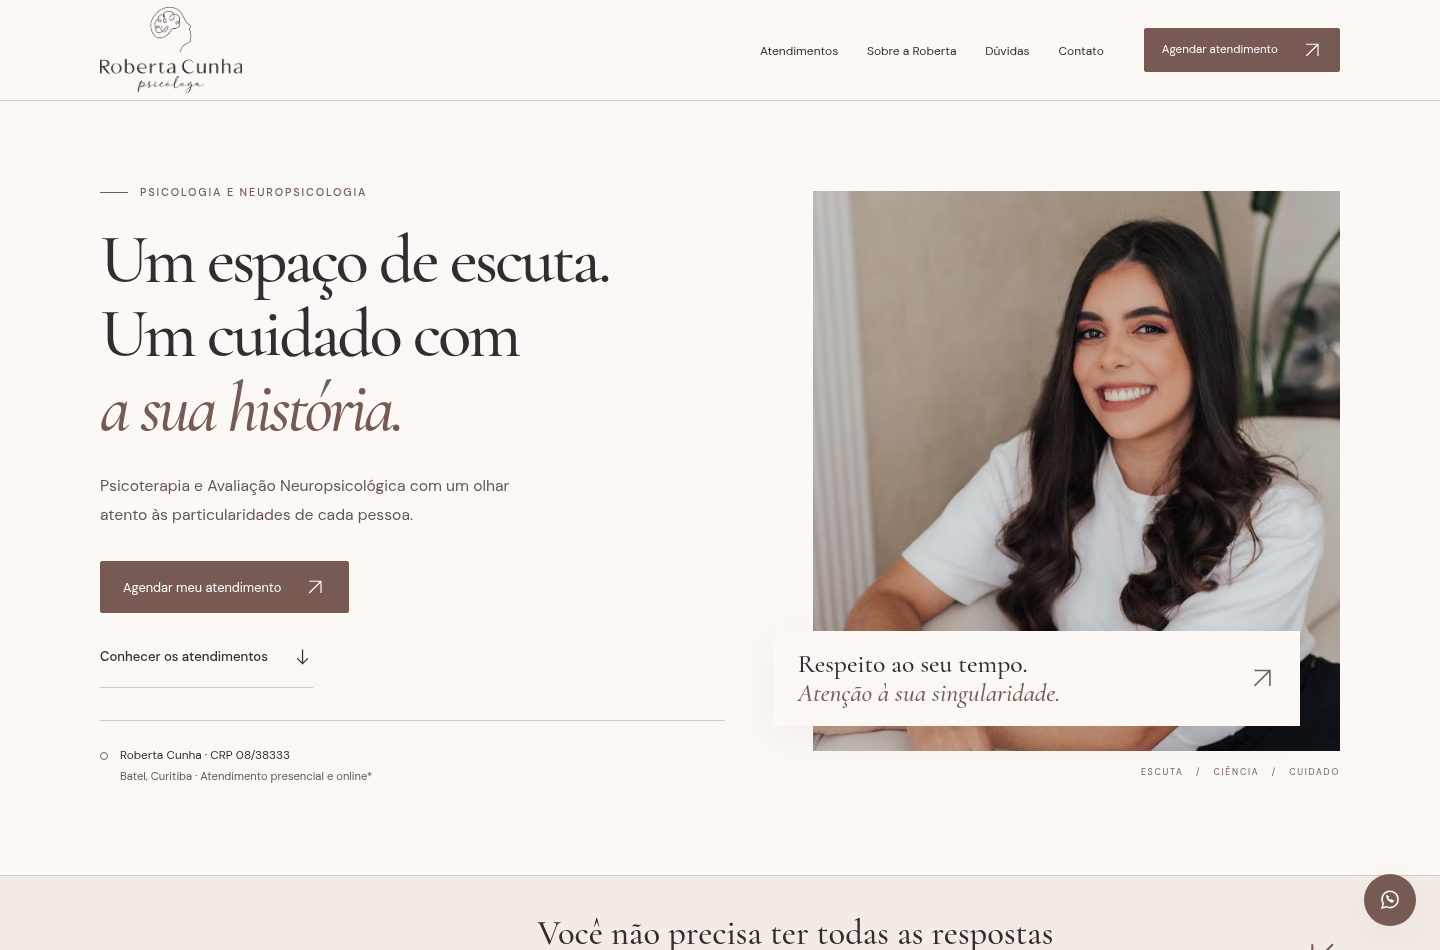
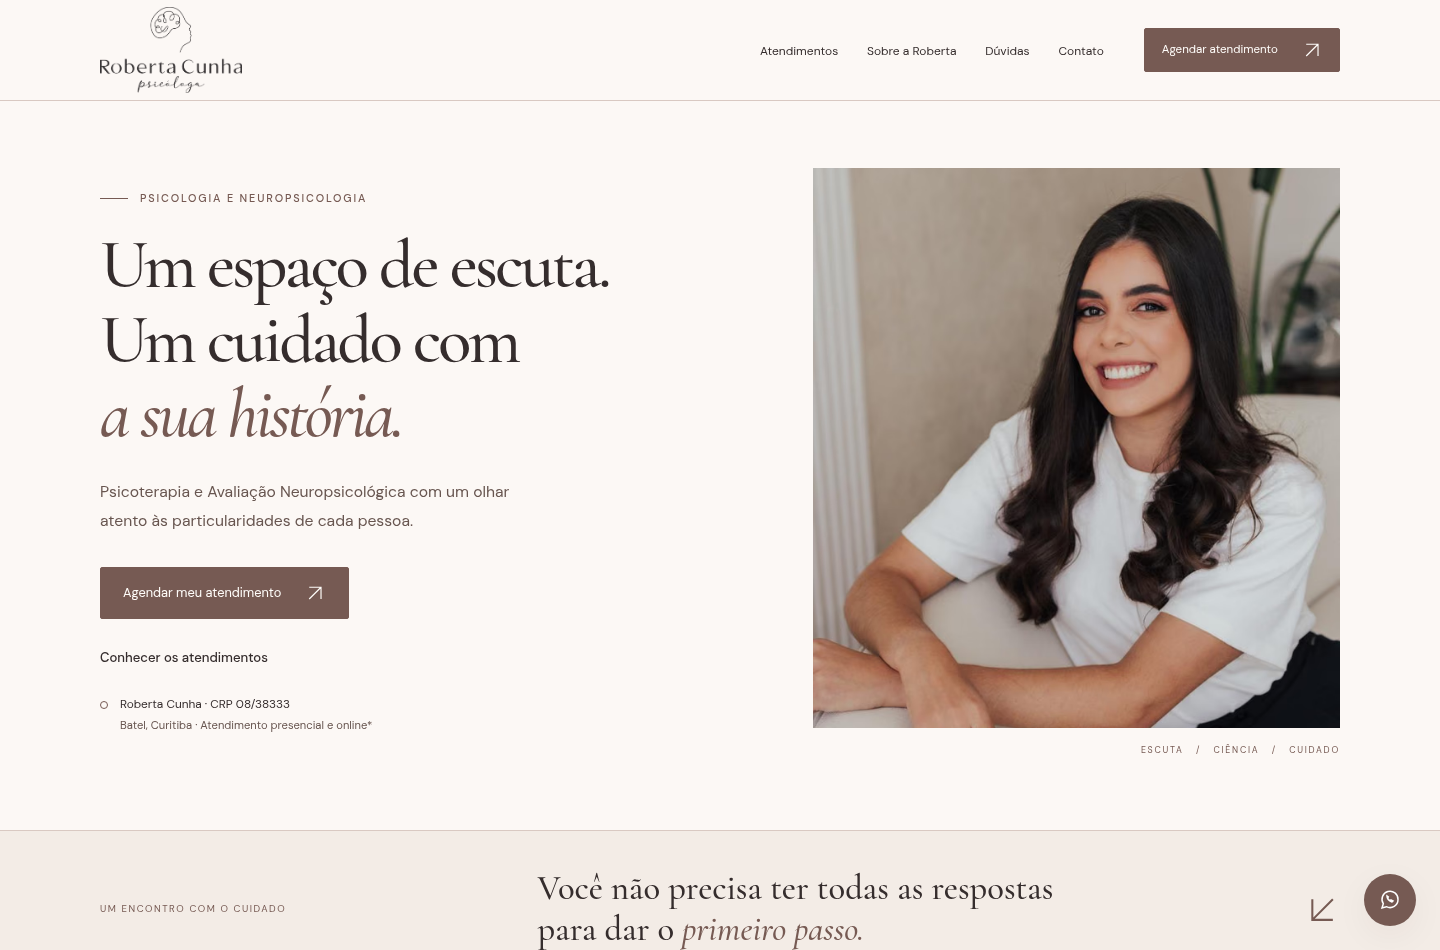
refactor: simplify landing visuals and add subtle scroll reveals

diff --git a/tests/site.spec.ts b/tests/site.spec.ts
@@ -3,6 +3,8 @@ import AxeBuilder from '@axe-core/playwright';
 
 for (const width of [320, 375, 390, 430, 768, 1024, 1440, 1920]) {
   test(`layout e acessibilidade em ${width}px`, async ({ page }) => {
+    // Auditoria estática; animações em movimento são verificadas nos testes próprios.
+    await page.emulateMedia({ reducedMotion: 'reduce' });
     await page.setViewportSize({ width, height: 900 });
     const errors: string[] = [];
     page.on('pageerror', (error) => errors.push(error.message));
@@ -109,6 +111,7 @@ test('menu mobile, teclado, FAQ e contatos', async ({ page }) => {
 test('preferências, persistência, rejeição e ausência de rastreadores', async ({
   page,
 }) => {
+  await page.emulateMedia({ reducedMotion: 'reduce' });
   const requests: string[] = [];
   page.on('request', (request) => {
     if (!request.url().startsWith('http://127.0.0.1:4322'))
@@ -200,3 +203,43 @@ test('conteúdo e FAQ funcionam sem JavaScript', async ({ browser }) => {
   await expect(page.locator('main a[href*="wa.me"]').first()).toBeVisible();
   await context.close();
 });
+
+for (const width of [390, 1440]) {
+  test(`entradas suaves e movimento reduzido em ${width}px`, async ({
+    page,
+  }) => {
+    await page.setViewportSize({ width, height: 900 });
+    await page.goto('/');
+    await expect(
+      page.locator('.image-note, .card-top svg, .hero-actions .arrow-link svg'),
+    ).toHaveCount(0);
+    await page.evaluate(() => {
+      const target = document.querySelector('.services-grid')!;
+      window.scrollTo({
+        top: target.getBoundingClientRect().top + scrollY - 220,
+        behavior: 'instant',
+      });
+    });
+    await expect
+      .poll(() =>
+        page.evaluate(
+          () =>
+            document
+              .getAnimations()
+              .filter(
+                (animation) => animation.effect?.getTiming().duration === 550,
+              ).length,
+        ),
+      )
+      .toBeGreaterThan(0);
+    await expect
+      .poll(() => page.evaluate(() => document.getAnimations().length))
+      .toBe(0);
+    await expect(page.locator('.service-card').first()).toBeVisible();
+    await page.emulateMedia({ reducedMotion: 'reduce' });
+    await page.reload();
+    await page.locator('.services-grid').scrollIntoViewIfNeeded();
+    expect(await page.evaluate(() => document.getAnimations().length)).toBe(0);
+    await expect(page.locator('.service-card').last()).toBeVisible();
+  });
+}

diff --git a/src/styles/global.css b/src/styles/global.css
@@ -337,23 +337,7 @@ section.hero {
 .portrait.hero {
   height: 560px;
 }
-.image-note {
-  position: absolute;
-  bottom: 55px;
-  left: -24px;
-  right: 40px;
-  display: flex;
-  align-items: center;
-  justify-content: space-between;
-  background: var(--paper);
-  padding: 19px 25px;
-  box-shadow: var(--shadow);
-  font: 500 1.6rem/1.1 var(--serif);
-}
-.note-mark {
-  font: 1.5rem var(--sans);
-  color: var(--brown);
-}
+
 .visual-label {
   position: absolute;
   bottom: 0;
@@ -421,9 +405,7 @@ section.hero {
   color: var(--brown);
   font-size: 0.8rem;
 }
-.card-top span:last-child {
-  font-size: 1.4rem;
-}
+
 .service-card .eyebrow {
   font-size: 0.6rem;
   margin-bottom: 0.7rem;
@@ -828,10 +810,7 @@ body:has(footer:hover) .floating-contact {
   .hero h1 {
     font-size: 4rem;
   }
-  .image-note {
-    left: 0;
-    right: 24px;
-  }
+
   .section-heading,
   .detail-row,
   .faq-grid,
@@ -901,10 +880,7 @@ body:has(footer:hover) .floating-contact {
   .portrait.hero {
     height: 490px;
   }
-  .image-note {
-    font-size: 1.3rem;
-    padding: 18px;
-  }
+
   .hero-actions .button {
     font-size: 0.75rem;
   }
@@ -1008,12 +984,7 @@ body:has(footer:hover) .floating-contact {
   .portrait.hero {
     height: 390px;
   }
-  .image-note {
-    bottom: 45px;
-    left: 0;
-    right: 25px;
-    font-size: 1.5rem;
-  }
+
   .visual-label {
     font-size: 0.5rem;
   }
@@ -1240,9 +1211,7 @@ body:has(.cookie-panel:not([hidden])) .floating-contact {
   .hero h1 {
     font-size: 2.9rem;
   }
-  .image-note {
-    font-size: 1.3rem;
-  }
+
   .contact-pair {
     grid-template-columns: 1fr;
   }
@@ -1257,8 +1226,6 @@ body:has(.cookie-panel:not([hidden])) .floating-contact {
 .button > span:last-child {
   display: flex;
 }
-.card-top > span:last-child,
-.note-mark,
 .strip-symbol {
   display: flex;
   align-items: center;
@@ -1292,4 +1259,28 @@ body:has(.cookie-panel:not([hidden])) .floating-contact {
 
 picture {
   display: block;
+}
+
+/* Simplificação da hero, sem divisores ou seta no link secundário. */
+.hero-actions .arrow-link {
+  border-bottom: 0;
+  padding-bottom: 0;
+}
+.hero-location {
+  border-top: 0;
+  padding-top: 0;
+  margin-top: 1.5rem;
+}
+.button {
+  transition:
+    background var(--ease),
+    color var(--ease),
+    border-color var(--ease),
+    box-shadow var(--ease);
+}
+.button:hover {
+  box-shadow: var(--shadow);
+}
+summary > span {
+  transition: transform var(--ease);
 }

diff --git a/src/data/site.ts b/src/data/site.ts
@@ -108,14 +108,14 @@ export const services = [
     title: 'Avaliação Neuropsicológica',
     eyebrow: 'Compreender para orientar o cuidado',
     description:
-      'Uma investigação cuidadosa do funcionamento cognitivo, emocional e comportamental, que contribui para compreender habilidades, dificuldades e necessidades individuais.',
+      'Investigação diagnóstica do funcionamento cognitivo, emocional e comportamental de crianças, adolescentes e adultos, com rigor técnico e acolhimento.',
     tags: ['Atenção e memória', 'Aprendizagem', 'Funções executivas'],
     kind: 'assessment' as ContactKind,
     cta: 'Agendar avaliação neuropsicológica',
     detail:
-      'O processo reúne entrevista, instrumentos pertinentes e análise integrada das informações. Pode investigar atenção, memória, linguagem, funções executivas, aprendizagem e aspectos emocionais e comportamentais.',
+      'A atuação da Roberta une rigor técnico e acolhimento na investigação diagnóstica e no acompanhamento de crianças, adolescentes e adultos, considerando demandas relacionadas ao TDAH, ao Transtorno do Espectro Autista (TEA), à ansiedade e a outras questões emocionais, cognitivas e comportamentais.',
     extra:
-      'A indicação e o percurso são definidos individualmente. A avaliação contribui para a compreensão da demanda e para orientar o cuidado, sem promessas de conclusões ou resultados específicos.',
+      'O processo integra entrevista, instrumentos pertinentes e análise das informações para compreender a demanda e orientar o cuidado. A indicação e o percurso são individualizados, sem garantia de diagnóstico ou de resultados específicos.',
   },
 ];
 export const process = [

diff --git a/docs/TESTES.md b/docs/TESTES.md
@@ -67,3 +67,13 @@ As instruções de instalação e inicialização foram persistidas nos campos `
 ## Preparação do primeiro envio ao GitHub
 
 Antes do primeiro commit em `main`, foram repetidos build, checagem de tipos, formatação e os 12 testes, todos aprovados. Foi confirmado `noindex,follow` no HTML gerado e `X-Robots-Tag: noindex` nos cabeçalhos do Pages. A versão é pública para revisão, não privada. O Lighthouse acima foi executado antes desse bloqueio intencional: a pontuação de SEO não representa a configuração de indexação da revisão. Nenhum novo resultado Lighthouse é alegado após essa alteração.
+
+## Ajustes editoriais e microanimações
+
+Removidos o bloco de frase sobre a fotografia, a seta e os dois divisores na área do link secundário da hero e as setas superiores dos cartões. Paleta, famílias tipográficas e estrutura preservadas; capturas de hero e serviços atualizadas em 390 e 1440 px.
+
+Texto da avaliação revisado a pedido da cliente, incluindo investigação diagnóstica, acompanhamento, públicos e demandas de TDAH, TEA e ansiedade. A validação pela Roberta permanece na checklist de publicação.
+
+`ScrollReveal.astro` usa IntersectionObserver e Web Animations API, sem bibliotecas: entrada de 550 ms, deslocamento de 14 px e atraso progressivo de até 130 ms. A primeira dobra não é ocultada. Sem JavaScript ou APIs de animação, o conteúdo permanece visível. Alterar a preferência para movimento reduzido cancela os efeitos ativos; foco por teclado finaliza a animação do elemento para mantê-lo legível.
+
+Validação desta revisão: build e tipos aprovados, **14 testes aprovados em 20,3 s**. Os 12 fluxos existentes continuam passando e dois novos testes verificam animações reais e movimento reduzido em 390 e 1440 px. Auditorias Axe e capturas estáticas são executadas com movimento reduzido, evitando amostrar estados transitórios de opacidade; o comportamento em movimento é testado separadamente. Nenhuma violação Axe detectada nos estados estáveis verificados. Não foi executado novo Lighthouse nesta revisão; os relatórios anteriores são históricos.

diff --git a/docs/DESIGN.md b/docs/DESIGN.md
@@ -27,3 +27,7 @@ Menu mobile com estado expandido, Escape e gestão de foco. FAQ em `details/summ
 Fotografias reais e marca original fornecidas em `Arquivo 2.zip`, incorporadas em 5 de novembro de 2026. Retrato próximo na hero e retrato no sofá em Sobre, com versões responsivas AVIF/WebP. Logo escuro original no cabeçalho e rodapé, sem recoloração, recorte ou distorção; a versão branca é preservada para uso futuro. Favicon derivado da submarca original apenas por redimensionamento com margem transparente.
 
 A hero usa enquadramento em `50% 28%` e o retrato de Sobre em `58% 28%`. A exibição foi revisada em desktop e mobile. Nenhum rosto ou marca foi recriado por IA. O arquivo social dedicado e a aprovação final de uso/recortes ainda precisam ser confirmados.
+
+## Movimento
+
+Entradas pontuais de títulos, textos, imagens e cartões ao rolar, com fade e deslocamento vertical de 14 px durante 550 ms. Progressão de até 130 ms entre elementos próximos, uma vez por elemento. A hero mantém o carregamento direto para preservar a primeira dobra. Botões usam transições de cor, borda e sombra. Movimento reduzido desativa animações e transições; o conteúdo não depende de animações para aparecer.

diff --git a/docs/PUBLICACAO.md b/docs/PUBLICACAO.md
@@ -13,7 +13,7 @@
 - [ ] Confirmar públicos, modalidades por serviço e condições de atendimento online.
 - [ ] Validar duração aproximada de 60 minutos, frequência e proposta inicialmente semanal.
 - [ ] Aprovar etapas da avaliação, devolutiva e documentação pertinente sem prometer prazos.
-- [ ] Confirmar se atende investigação de TDAH/TEA antes de mencionar essas demandas (omitidas nesta versão).
+- [ ] Validar com Roberta o texto solicitado sobre investigação diagnóstica, acompanhamento, TDAH/TEA e ansiedade, agora incluído nesta versão.
 - [ ] Revisar todos os textos, FAQ e notas editoriais; resolver as pendências antes de remover as notas.
 - [ ] Conferir telefone, e-mail, Instagram, endereço, sala, bloco e destino do Maps. Link de busca é baseado no endereço fornecido; não houve verificação independente da localização.
 
